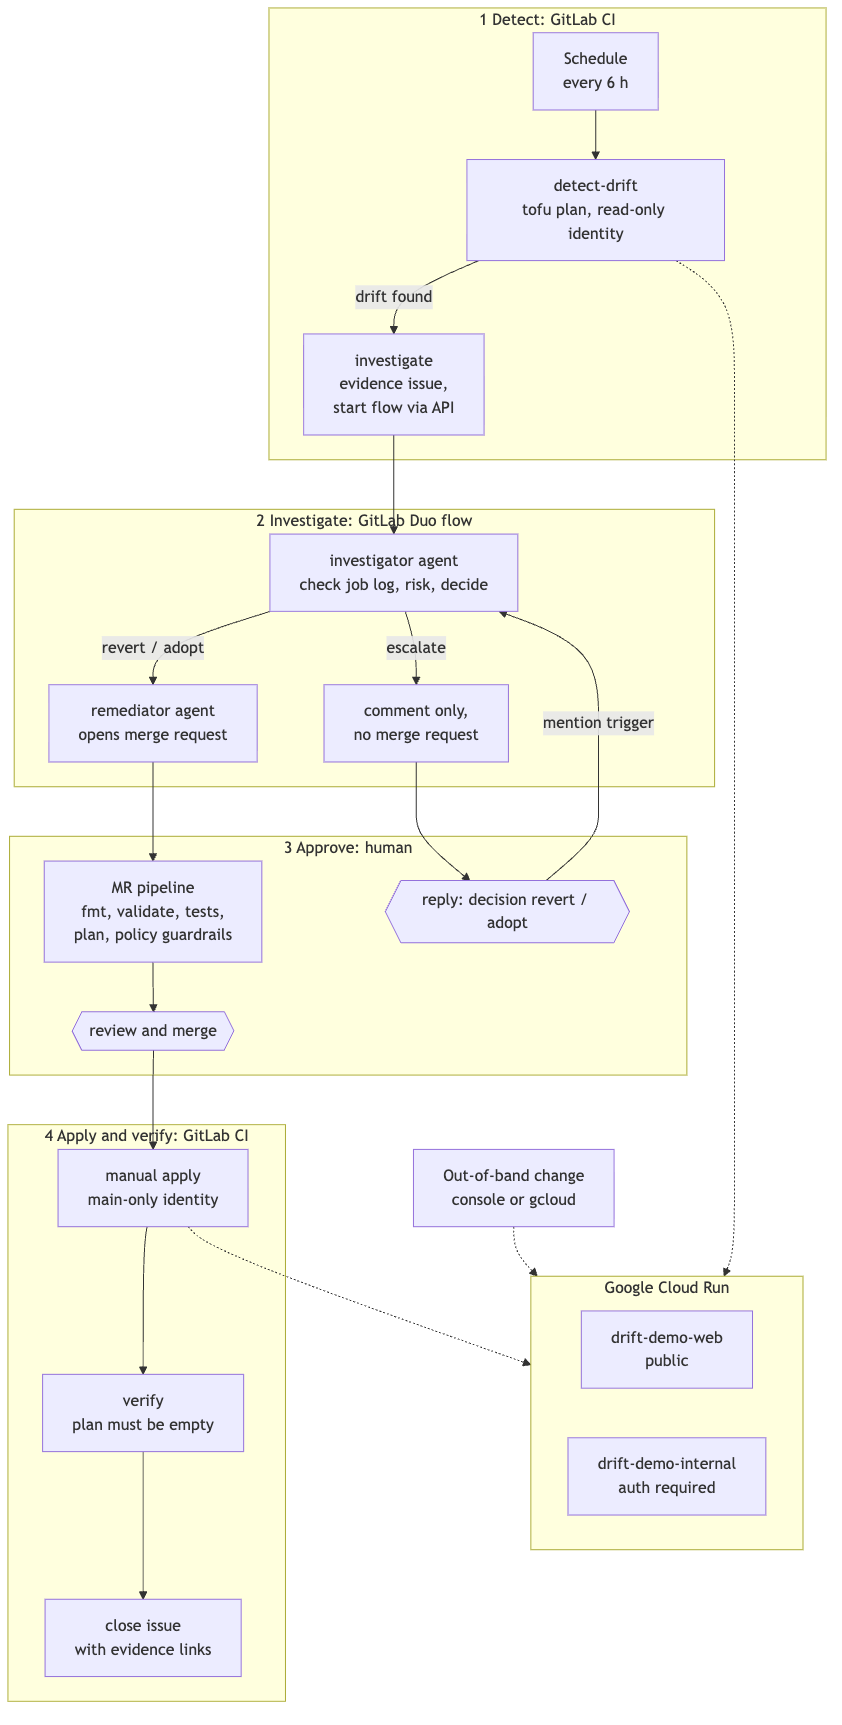
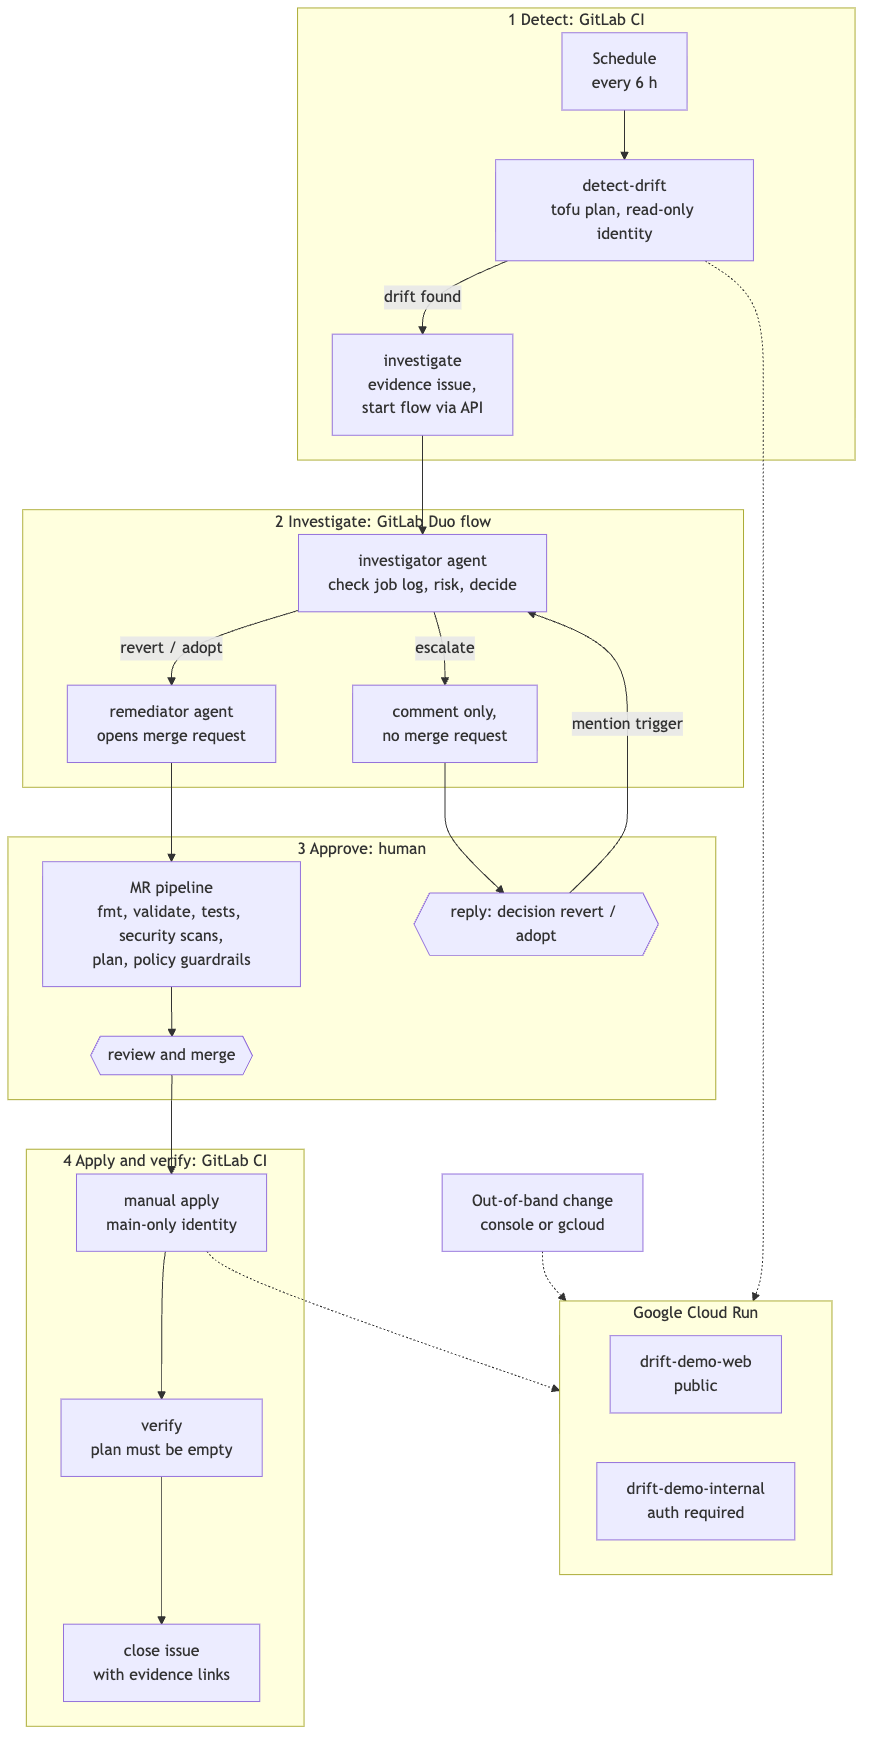
README: document the security scanning stage and gate

diff --git a/README.md b/README.md
@@ -47,7 +47,7 @@ flowchart TB
 
   subgraph S3["3 Approve: human"]
     direction LR
-    MRCI["MR pipeline<br/>fmt, validate, tests,<br/>plan, policy guardrails"] --> H1{{"review and merge"}}
+    MRCI["MR pipeline<br/>fmt, validate, tests, security scans,<br/>plan, policy guardrails"] --> H1{{"review and merge"}}
     H2{{"reply: decision revert / adopt"}}
   end
 
@@ -78,8 +78,9 @@ flowchart TB
    the flow with a comment and no merge request.
 5. **Propose.** The remediator opens one merge request from `duo/fix/drift-issue-N`. Revert MRs only add
    an incident record (the code is already right). Adopt MRs change only the drifted attributes.
-6. **Validate.** The MR pipeline runs `fmt`, `validate`, the test suite, and a plan with
-   [`scripts/policy_check.sh`](scripts/policy_check.sh). The guardrails hold even if the agent is wrong.
+6. **Validate.** The MR pipeline runs `fmt`, `validate`, the test suite, IaC and secret scanning behind a
+   security gate, and a plan with [`scripts/policy_check.sh`](scripts/policy_check.sh). The guardrails hold
+   even if the agent is wrong.
 7. **Approve and apply.** A human merges and clicks the manual `apply` job on `main`.
 8. **Verify and close.** `verify` re-plans and must see **no changes**. It then follows the merged MR's
    `Drift-Issue: #N` trailer, posts links to the evidence, and closes the issue.
@@ -121,6 +122,8 @@ Detection was triggered by hand right after each change. On the 6-hour schedule,
   agent's playbook, versioned and reviewed like code.
 - **CI/CD:** pipeline schedules, a manual job as the approval gate, environments, `resource_group`
   serialization, dotenv artifacts between jobs, the Terraform MR widget report, and **OIDC `id_tokens`**.
+- **Security scanning:** IaC SAST (KICS) and secret detection templates, made blocking by
+  [`scripts/security_gate.sh`](scripts/security_gate.sh), which fails on Critical or High findings.
 - **GitLab-managed OpenTofu state** and the official `gitlab-opentofu` image from the
   [OpenTofu CI/CD component](https://gitlab.com/components/opentofu).
 - **Issues and merge requests** as the audit trail: scoped labels (`drift::investigating` → `drift::resolved`),
@@ -166,13 +169,13 @@ instructions in [`SKILL.md`](skills/drift-investigation/SKILL.md), not technical
 ## Repository layout
 
 ```text
-.gitlab-ci.yml                  validate, plan, apply, verify, drift, investigate
+.gitlab-ci.yml                  validate, secure, plan, apply, verify, drift, investigate
 bootstrap/                      one-time: workload identity federation and service accounts
 terraform/                      the managed environment (two Cloud Run services and an IAM binding)
 flows/drift-investigator.yml    the Duo custom flow (investigator and remediator)
 skills/drift-investigation/     the agent's playbook
-scripts/                        GCP auth, evidence, policy, flow start, issue closing, flow publishing
-tests/                          tests for the evidence and policy scripts (real plan fixture)
+scripts/                        GCP auth, evidence, policy and security gates, flow start, issue closing, flow publishing
+tests/                          tests for the evidence, policy, and security gate scripts
 drift/incidents/                incident records committed by the agent's merge requests
 docs/                           measured evaluation, architecture diagram (PNG)
 ```
